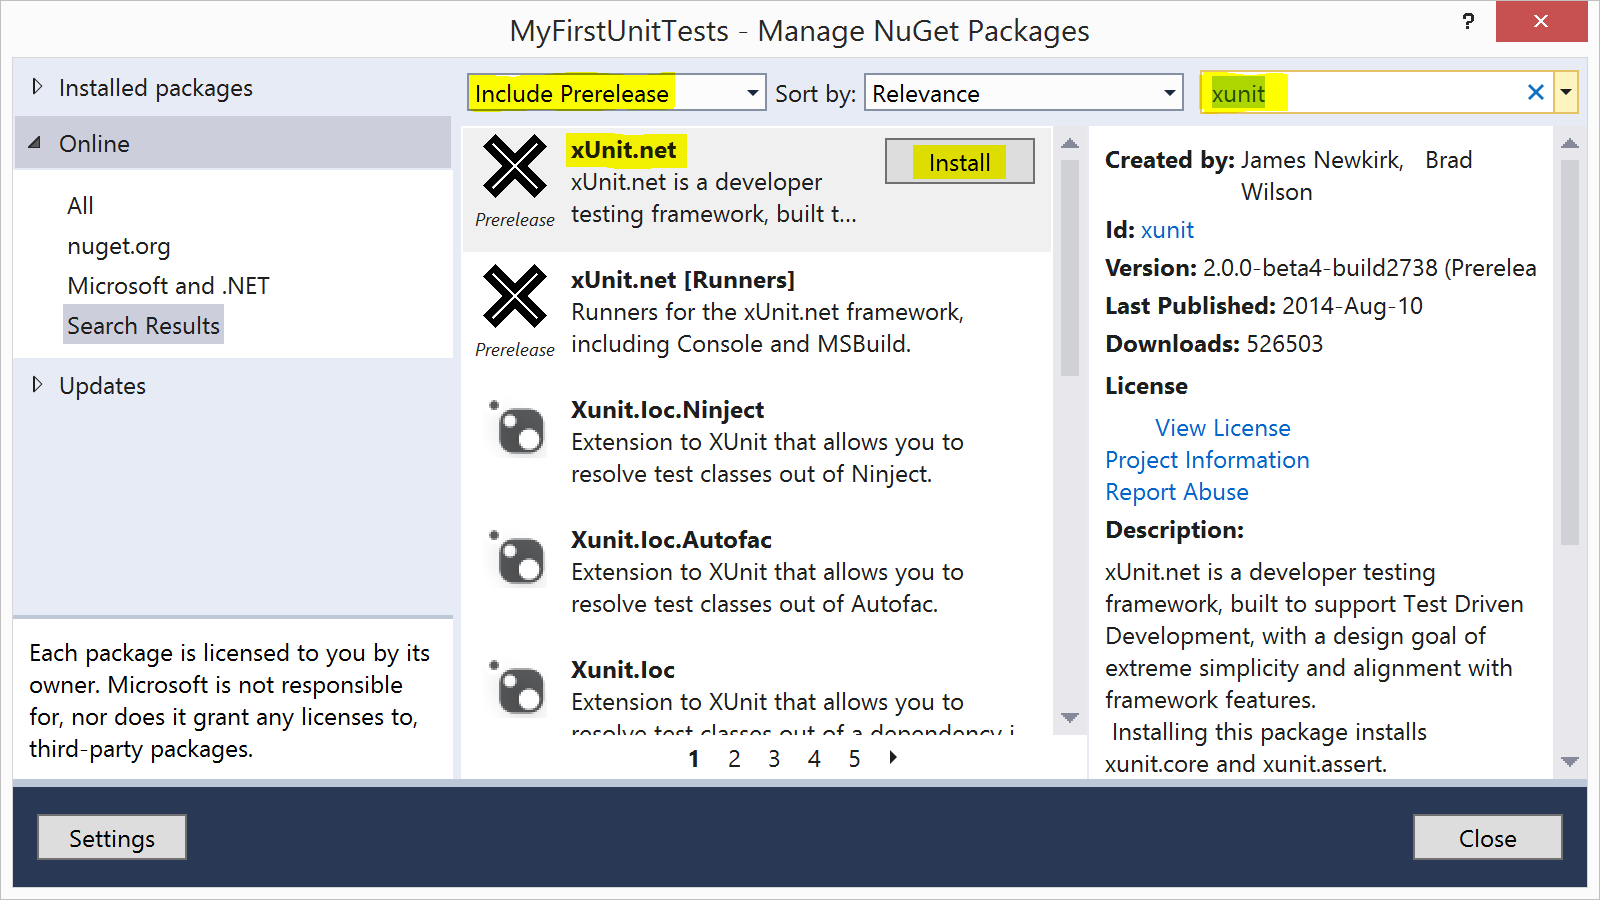
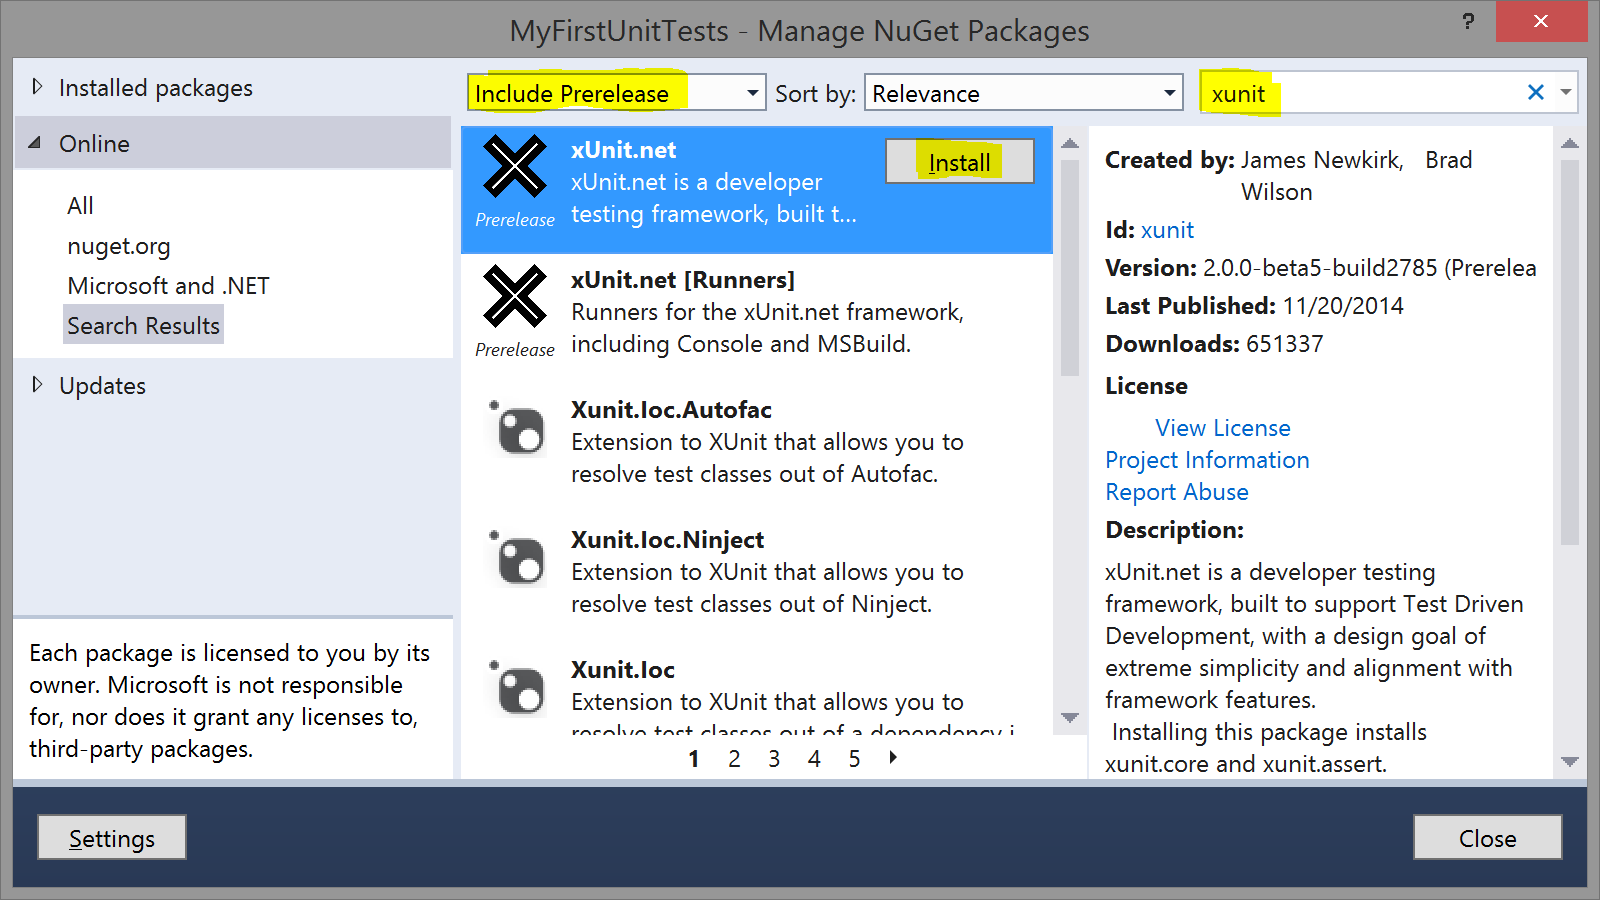
Update documentation for Beta 5

diff --git a/docs/getting-started.html b/docs/getting-started.html
@@ -18,7 +18,7 @@ breadcrumb: Documentation
   <li><a href="#run-tests-visualstudio">Run tests with Visual Studio</a></li>
 </ul>
 
-<p><em>Note: The examples were done with xUnit.net v2.0 beta 4. The version numbers and paths may differ for you, depending on which version you're using.</em></p>
+<p><em>Note: The examples were done with xUnit.net v2.0 beta 5. The version numbers and paths may differ for you, depending on which version you're using.</em></p>
 
 <h2 id="create-class-library">Create a class library project</h2>
 
@@ -48,10 +48,10 @@ breadcrumb: Documentation
 {% highlight xml %}
 <?xml version="1.0" encoding="utf-8"?>
 <packages>
-  <package id="xunit" version="2.0.0-beta4-build2738" targetFramework="net45" />
-  <package id="xunit.abstractions" version="2.0.0-beta4-build2738" targetFramework="net45" />
-  <package id="xunit.assert" version="2.0.0-beta4-build2738" targetFramework="net45" />
-  <package id="xunit.core" version="2.0.0-beta4-build2738" targetFramework="net45" />
+  <package id="xunit" version="2.0.0-beta5-build2785" targetFramework="net45" />
+  <package id="xunit.abstractions" version="2.0.0-beta5-build2785" targetFramework="net45" />
+  <package id="xunit.assert" version="2.0.0-beta5-build2785" targetFramework="net45" />
+  <package id="xunit.core" version="2.0.0-beta5-build2785" targetFramework="net45" />
 </packages>
 {% endhighlight %}
 
@@ -103,7 +103,7 @@ namespace MyFirstUnitTests
 <p>To run the console runner, use a command like the one hightlighted below. You should see output similar to this:</p>
 
 <pre>
-&gt; <span style="background-color: #ff0">packages\xunit.runners.2.0.0-beta4-build2738\tools\xunit.console MyFirstUnitTests\bin\Debug\MyFirstUnitTests.dll</span>
+&gt; <span style="background-color: #ff0">packages\xunit.runners.2.0.0-beta5-build2785\tools\xunit.console MyFirstUnitTests\bin\Debug\MyFirstUnitTests.dll</span>
 xUnit.net console test runner (64-bit .NET 4.0.30319.34014)
 Copyright (C) 2014 Outercurve Foundation.
 
@@ -182,13 +182,15 @@ Finished: MyFirstUnitTests.dll
 
 <h2 id="run-tests-visualstudio">Running tests with Visual Studio</h2>
 
-<p>If you have Visual Studio Professional or higher,  can run your xUnit.net tests within Visual Studio's built-in test runner (named Test Explorer).</p>
+<p class="important"><strong>Important note</strong>: If you've previously installed the xUnit.net Visual Studio Runner VSIX (Extension), you must uninstall it first. The Visual Studio runner is only distributed via NuGet now. To remove it, to go <code>Tools</code> &gt; <code>Extensions and Updates</code>. Scroll to the bottom of the list, and if xUnit.net is installed, uninstall it. This will force you to restart Visual Studio.</p>
 
-<p>To enable xUnit.net test running support in Visual Studio, you must install the xUnit.net test runner extension. Go to <code>Tools &gt; Extensions and Updates</code>. On the left nav, ensure that <code>Visual Studio Gallery</code> is selected under <code>Online</code>. Using the search box in the upper right corner, search for <code>xunit</code>. Then install the extension by clicking <code>Download</code>:</p>
+<p>If you have Visual Studio Community (or a paid-for version of Visual Studio), you can run your xUnit.net tests within Visual Studio's built-in test runner (named Test Explorer).</p>
 
-<p><img class="border" src="../images/getting-started/vs-extension.png" width="877" /></p>
+<p>Once again, right click on the project in Solution Explorer and choose <code>Manage NuGet Packages</code>. This time, you're going to search for (and install) a package named <code>xunit.runner.visualstudio</code>:</p>
 
-<p>After installation, you will be prompted to restart Visual Studio. After you've restarted, then rebuild your solution. Make sure Test Explorer is visible (go to <code>Test &gt; Windows &gt; Test Explorer</code>). After a moment of discovery, you should see the list of discovered tests:</p>
+<p><img class="border" src="../images/getting-started/add-xunit-runner-visualstudio.png" width="875" /></p>
+
+<p>Make sure Test Explorer is visible (go to <code>Test &gt; Windows &gt; Test Explorer</code>). Every time you build your project, the runner will discover unit tests in your project. After a moment of discovery, you should see the list of discovered tests:</p>
 
 <p><img class="border" src="../images/getting-started/test-explorer.png" width="330" /></p>
 

diff --git a/release-notes/2014-11-19.html b/release-notes/2014-11-19.html
@@ -1,0 +1,63 @@
+---
+layout: default
+title: Release Notes for November 19, 2014
+breadcrumb: Release Notes
+---
+
+<h1>Release Notes: November 19, 2014</h1>
+
+<h2>Important notes</h2>
+
+<p class="important">This release of the Visual Studio runner officially deprecates the VSIX package. If you've previously installed the VSIX package, you will have runner conflicts until you've removed the VSIX package. For more information, see the <a href="http://localhost:4000/docs/getting-started.html#run-tests-visualstudio">Getting Started</a> page for more information.</p>
+
+<h2>All projects</h2>
+
+<ul>
+  <li>Switched from Symbolsource to GitHubLink for source-level debugging.</li>
+</ul>
+
+<h2>xUnit.net 2.0 Beta 5</h2>
+
+<h3>Core framework</h3>
+<ul>
+  <li>Added support for ASP.NET 5.0 (Beta 1). Runners will be forthcoming shortly.</li>
+  <li>Added support for Windows Phone 8 (Silverlight).</li>
+  <li>Added <code>ITestOutputHelper</code> (taken as a test class constructor dependency) to let tests report output.</li>
+  <li>Added predicate support to <code>Assert.Contains</code> and <code>Assert.DoesNotContain</code>.</li>
+  <li>Updated <code>Assert.Contains</code> to include the collection in the assertion failure message.</li>
+  <li>Removed <code>Assert.DoesNotThrow</code>.</li>
+  <li>Switch tasks (used for parallelization) to use a custom thread pool.</li>
+  <li>Updated assertion failures to object formatting that is consistent with theory parameter values.</li>
+  <li><strong>BUG:</strong> Fixed an issue when running xUnit.net v1 tests that throw exceptions without stack traces.</li>
+</ul>
+
+<h3>Extensibility</h3>
+<ul>
+  <li>Allow theory data providers to explicitly opt out of pre-enumeration (for expensive data sources, like databases).</li>
+  <li>Added <code>ITest</code> to be able to differentiate between multiple tests for a single test case.</li>
+  <li>Added <code>ITestOutput</code> message to report real-time output capture from tests.</li>
+  <li>Added <code>IDiagnosticMessage</code> to report diagnostic information (not wired up yet).</li>
+  <li>Added <code>ITestCollectionOrderer</code> to allow end-user customization of the run order of test collections.</li>
+  <li>Convert runner extensibility points (<code>TestXxxRunner</code> and friends) to be async.</li>
+  <li>Made <code>TestMethodTestCase.SetData</code> virtual.</li>
+</ul>
+
+<h3>Console and MSBuild Runners</h3>
+<ul>
+  <li>Grand total time in Console and MSBuild runners includes both aggregate time and clock time.</li>
+  <li>The console runner can now run multiple assemblies.</li>
+  <li>Console runner supports <code>-class</code> and <code>-method</code> to run specific test classes and test methods.</li>
+  <li>Added <code>Discovering</code> and <code>Discovered</code> output to the MSBuild runner.</li>
+  <li><strong>BUG:</strong> Output for v1 XML was accidentally duplicating output when running mulitple assemblies.</li>
+  <li><strong>BUG:</strong> Running assemblies without any tests previously silently failed in the Console and MSBuild runners.</li>
+</ul>
+
+<h2>Visual Studio runner 0.99.9</h2>
+
+<ul>
+  <li>Update <code>xunit.runner.visualstudio</code> to support PCLs.</li>
+  <li>Removed the VSIX. All deployments are done via NuGet only now.</li>
+  <li><strong>BUG:</strong> Fix linking issues that prevented using the NuGet package with xUnit.net 1.x tests.</li>
+  <li><strong>BUG:</strong> Fix issues where Win8, Win8.1, and WPA8.1 tests didn't run without the VSIX.</li>
+  <li><strong>BUG:</strong> Fix issue where Visual Studio runner could not run private test methods.</li>
+</ul>

diff --git a/index.html b/index.html
@@ -22,6 +22,7 @@ noheader: true
 
 <ul>
   <li><a href="#documentation">Documentation</a></li>
+  <li><a href="#releases">Release Notes</a></li>
   <li><a href="#runners">Test Runner Compatibility</a></li>
   <li><a href="#faq">Frequently Asked Questions</a></li>
   <li><a href="#projects">Github Projects</a></li>
@@ -41,6 +42,12 @@ noheader: true
 <ul>
   <li><a href="docs/test-migration.html">Migrating unit tests from v1 to v2</a></li>
   <li><a href="docs/extension-migration.html">Migrating extensions from v1 to v2</a></li>
+</ul>
+
+<h2 id="releases">Release Notes</h2>
+
+<ul>
+  <li><a href="release-notes/2014-11-19.html">November 19, 2014</a> (includes <strong>xUnit.net 2.0 Beta 5</strong> and <strong>Visual Studio runner 0.99.9</strong>)</li>
 </ul>
 
 <h2 id="runners">Test Runner Compatibility</h2>

diff --git a/css/site.css b/css/site.css
@@ -43,8 +43,9 @@ img.border {
   display: inline-block;
   margin-left: 15px;
   padding: 5px;
-  border: 3px solid #666;
+  border: 1px solid #666;
   background-color: White;
+  box-shadow: 5px 5px 10px #888;
 }
 ol {
   margin-left: 5px;
@@ -95,4 +96,10 @@ blockquote {
   color: #c66;
   font-style: italic;
   margin: 20px 0 10px 0;
+}
+.important {
+  background-color: #fcc;
+  border-radius: 5px;
+  box-shadow: 5px 5px 3px #888;
+  padding: 5px 10px;
 }
